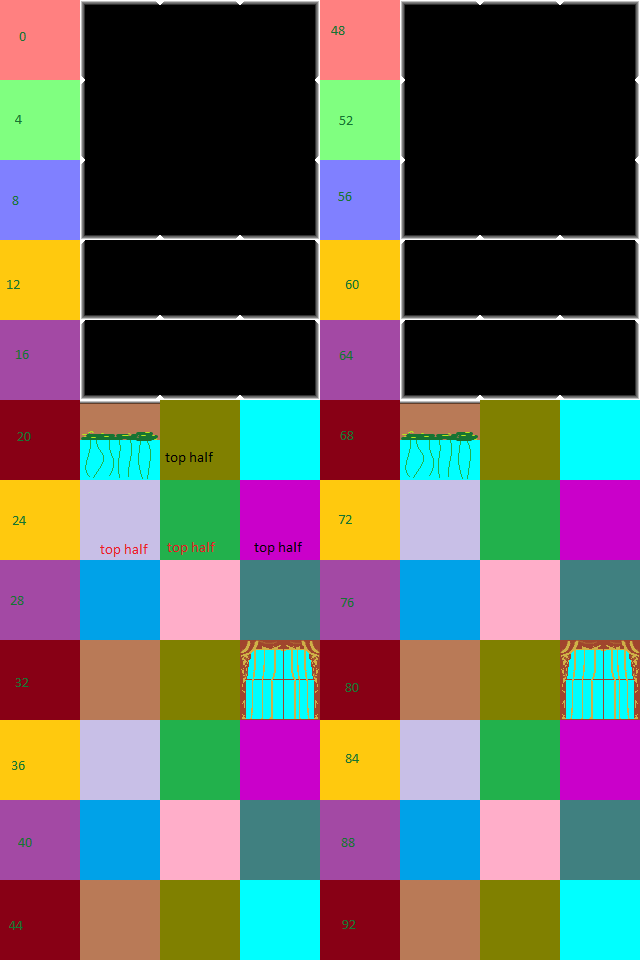
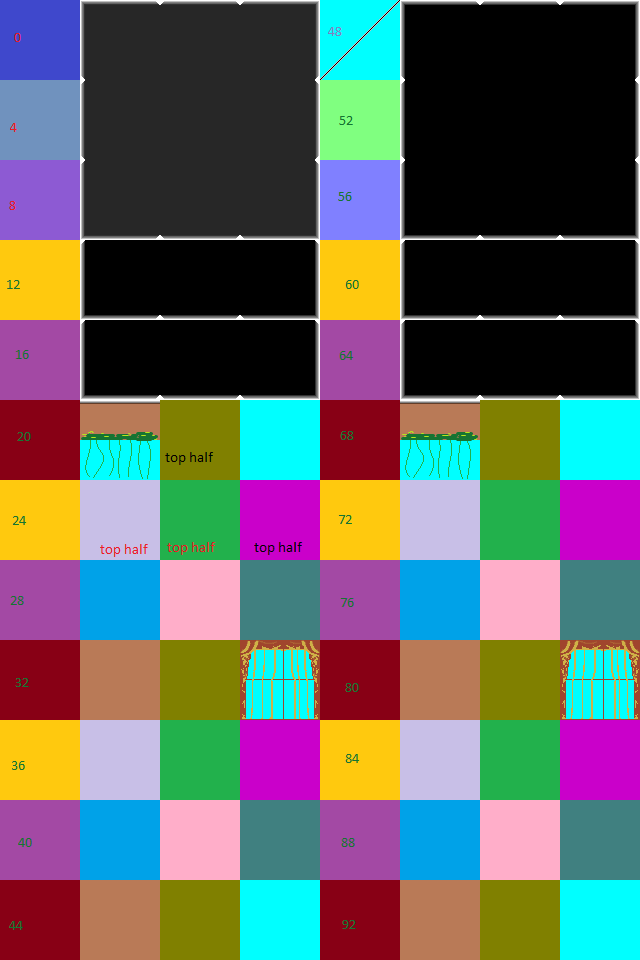
Diagonal tiles for now.

Changed region(s): [[0.0, 0.0, 0.625, 0.25]]

diff --git a/character.cc b/character.cc
@@ -394,12 +394,34 @@ void Character::move(Tile *tiles[], std::vector<Npc *> &npcVector, float timeSte
 	mBox.x = mPosX;
 	mWeapon.x = mPosX;
 	tileTouched = touchesWall(mBox, tiles);
-	if(tileTouched > -1 && mVelX > 0) {
-		if(tiles[tileTouched]->getType() >= 21 && tiles[tileTouched]->getType() <= 27) mPosX = tiles[tileTouched]->getCollisionBox().x - CHARACTER_WIDTH;
+	/*
+	if(tileTouched > -1 && tiles[tileTouched]->diagonalTile && mPosX > tiles[tileTouched]->getPixelBox()[tiles[tileTouched]->pixelTouched].x) {
+		mPosX = tiles[tileTouched]->getPixelBox()[tiles[tileTouched]->pixelTouched].x + tiles[tileTouched]->getPixelBox()[tiles[tileTouched]->pixelTouched].w;
+	}
+	*/
+	if(tileTouched > -1 && tiles[tileTouched]->diagonalTile && mPosY > tiles[tileTouched]->getPixelBox()[tiles[tileTouched]->pixelTouched].y) {
+		mPosY = tiles[tileTouched]->getPixelBox()[tiles[tileTouched]->pixelTouched].y + tiles[tileTouched]->getPixelBox()[tiles[tileTouched]->pixelTouched].h;
+		mPosX = tiles[tileTouched]->getPixelBox()[tiles[tileTouched]->pixelTouched].x - tiles[tileTouched]->getPixelBox()[tiles[tileTouched]->pixelTouched].w;
+	}
+	else if(tileTouched > -1 && mPosX < tiles[tileTouched]->getBox().x) {
+		if(tiles[tileTouched]->topHalf) mPosX = tiles[tileTouched]->getCollisionBox().x - CHARACTER_WIDTH;
+		else if(tiles[tileTouched]->diagonalTile && !(mPosY > tiles[tileTouched]->getPixelBox()[tiles[tileTouched]->pixelTouched].y)) {
+			//std::cout << "hit!" << std::endl;
+			mPosY = tiles[tileTouched]->getPixelBox()[tiles[tileTouched]->pixelTouched].y - CHARACTER_HEIGHT;
+		}
 		else mPosX = tiles[tileTouched]->getBox().x - CHARACTER_WIDTH;
 	}
-	if(tileTouched > -1 && mVelX < 0) {
-		if(tiles[tileTouched]->getType() >= 21 && tiles[tileTouched]->getType() <= 27) mPosX = tiles[tileTouched]->getCollisionBox().x + TILE_WIDTH;
+	else if(tileTouched > -1 && mVelX < 0) {
+		if(tiles[tileTouched]->topHalf) mPosX = tiles[tileTouched]->getCollisionBox().x + TILE_WIDTH;
+		else if(tiles[tileTouched]->diagonalTile && mPosY < tiles[tileTouched]->getPixelBox()[tiles[tileTouched]->pixelTouched].y) {
+			std::cout << tiles[tileTouched]->pixelTouched << std::endl;
+			//std::cout << "hit!" << std::endl;
+			mPosY = tiles[tileTouched]->getPixelBox()[tiles[tileTouched]->pixelTouched].y - tiles[tileTouched]->getPixelBox()[tiles[tileTouched]->pixelTouched].h;
+		}
+		else if(tiles[tileTouched]->diagonalTile && mPosY > tiles[tileTouched]->getPixelBox()[tiles[tileTouched]->pixelTouched].y) {
+			mPosY = tiles[tileTouched]->getPixelBox()[tiles[tileTouched]->pixelTouched].y + tiles[tileTouched]->getPixelBox()[tiles[tileTouched]->pixelTouched].h;
+			mPosX = tiles[tileTouched]->getPixelBox()[tiles[tileTouched]->pixelTouched].x - tiles[tileTouched]->getPixelBox()[tiles[tileTouched]->pixelTouched].w;
+		}
 		else mPosX = tiles[tileTouched]->getBox().x + TILE_WIDTH;
 	}
 
@@ -465,14 +487,32 @@ void Character::move(Tile *tiles[], std::vector<Npc *> &npcVector, float timeSte
 	mWeapon.y = mPosY;
 	tileTouched = touchesWall(mBox, tiles);
 	tileTap = touchesTap(mBox, tiles);
-	if(tileTouched > -1 && mVelY > 0) {
+	if(tileTouched > -1 && tiles[tileTouched]->diagonalTile && mPosY > tiles[tileTouched]->getPixelBox()[tiles[tileTouched]->pixelTouched].y) {
+		// Do nothing, seriously...
+	}
+	else if(tileTouched > -1 && mPosY < tiles[tileTouched]->getBox().y) {
 		mVelY = 0;
-		if(tiles[tileTouched]->getType() >= 21 && tiles[tileTouched]->getType() <= 27) mPosY = tiles[tileTouched]->getCollisionBox().y - CHARACTER_HEIGHT;
+		if(tiles[tileTouched]->topHalf) mPosY = tiles[tileTouched]->getCollisionBox().y - CHARACTER_HEIGHT;
+		else if(tiles[tileTouched]->diagonalTile) {
+			//std::cout << "hit!" << std::endl;
+			mPosY = tiles[tileTouched]->getPixelBox()[tiles[tileTouched]->pixelTouched].y - CHARACTER_HEIGHT;
+		}
 		else mPosY = tiles[tileTouched]->getBox().y - CHARACTER_HEIGHT;
 		isJumping = false;
 	}
-	if(tileTouched > -1 && mVelY < 0) {
-		if(tiles[tileTouched]->getType() >= 21 && tiles[tileTouched]->getType() <= 27) mPosY = tiles[tileTouched]->getCollisionBox().y + tiles[tileTouched]->getCollisionBox().h;
+	/*
+	if(tileTouched > -1 && tiles[tileTouched]->diagonalTile && mPosY > tiles[tileTouched]->getPixelBox()[tiles[tileTouched]->pixelTouched].y) {
+		mPosY = tiles[tileTouched]->getPixelBox()[tiles[tileTouched]->pixelTouched].y + tiles[tileTouched]->getPixelBox()[tiles[tileTouched]->pixelTouched].h;
+	}
+	*/
+	else if((tileTouched > -1 && mPosY > tiles[tileTouched]->getBox().y)) {
+		if(tiles[tileTouched]->topHalf) mPosY = tiles[tileTouched]->getCollisionBox().y + tiles[tileTouched]->getCollisionBox().h;
+		/*
+		else if(tiles[tileTouched]->diagonalTile) {
+			//std::cout << "hit!" << std::endl;
+			mPosY = tiles[tileTouched]->getPixelBox()[tiles[tileTouched]->pixelTouched].y + tiles[tileTouched]->getPixelBox()[tiles[tileTouched]->pixelTouched].h;
+		}
+		*/
 		else mPosY = tiles[tileTouched]->getBox().y + TILE_HEIGHT;
 	}
 	npcTouched = touchesNpc(mBox, npcVector);

diff --git a/proj.cc b/proj.cc
@@ -79,6 +79,7 @@ bool setTiles(Tile *tiles[], std::string mapName);
 
 //Box collision detector
 bool checkCollision(SDL_Rect a, SDL_Rect b);
+int checkDiagonalCollision(SDL_Rect a, std::vector<SDL_Rect> &b);
 
 //Checks collision box against set of tiles
 int touchesWall(SDL_Rect box, Tile *tiles[]);
@@ -344,6 +345,53 @@ bool checkCollision(SDL_Rect a, SDL_Rect b) {
 	return true;
 }
 
+int checkDiagonalCollision(SDL_Rect a, std::vector<SDL_Rect> &b) {
+	//The sides of the rectangles
+	int leftA, leftB;
+	int rightA, rightB;
+	int topA, topB;
+	int bottomA, bottomB;
+
+	//Calculate the sides of rect A
+	leftA = a.x;
+	rightA = a.x + a.w;
+	topA = a.y;
+	bottomA = a.y + a.h;
+
+	//Calculate the sides of rect B
+	for(unsigned bBox = 0; bBox < b.size(); ++bBox) {
+		leftB = b[bBox].x;
+		rightB = b[bBox].x + b[bBox].w;
+		topB = b[bBox].y;
+		bottomB = b[bBox].y + b[bBox].h;
+
+		//If any of the sides from A are outside of B
+		if(((bottomA <= topB) || (topA >= bottomB) || (rightA <= leftB) || (leftA >= rightB)) == false) {
+			return bBox;
+		}
+		/*
+		if(bottomA <= topB) {
+			return false;
+		}
+
+		if(topA >= bottomB) {
+			return false;
+		}
+
+		if(rightA <= leftB) {
+			return false;
+		}
+
+		if(leftA >= rightB) {
+			return false;
+		}
+		*/
+	}
+
+	//If none of the sides from A are outside B
+	return -1;
+}
+
 bool checkUpperCollision(SDL_Rect a, SDL_Rect b) {
 	//The sides of the rectangles
 	int leftA, leftB;
@@ -504,10 +552,18 @@ int touchesWall(SDL_Rect box, Tile *tiles[]) {
 		//If the tile is a wall type tile
 		if((tiles[i]->getType() % 4 != 0 && tiles[i]->getType() < 20) || 
 			 (tiles[i]->getType() % 4 != 0 && tiles[i]->getType() >= 49 && tiles[i]->getType() < 68) ||
-			 (tiles[i]->getType() % 4 != 0 && tiles[i]->getType() > 20 && tiles[i]->getType() <= 27 && tiles[i]->getType() != 23)) {
+			 (tiles[i]->topHalf) ||
+			 (tiles[i]->diagonalTile)) {
 			//If the collision box touches the wall tile
-			if(tiles[i]->getType() > 20 && tiles[i]->getType() <= 27) {
+			if(tiles[i]->topHalf) {
 				if(checkCollision(box, tiles[i]->getCollisionBox())) {
+					return i;
+				}
+			}
+			else if(tiles[i]->diagonalTile) {
+				int diag = checkDiagonalCollision(box, tiles[i]->getPixelBox());
+				if(diag > -1) {
+					tiles[i]->pixelTouched = diag;
 					return i;
 				}
 			}

diff --git a/npc.cc b/npc.cc
@@ -116,11 +116,15 @@ void Npc::move(Tile *tiles[], Character &character, float timeStep) {
 	mBox.x = mPosX;
 	tileTouched = touchesWall(mBox, tiles);
 	if(tileTouched > -1 && mVelX > 0) {
-		if(tiles[tileTouched]->getType() >= 21 && tiles[tileTouched]->getType() <= 27) mPosX = tiles[tileTouched]->getCollisionBox().x - NPC_WIDTH;
+		if(tiles[tileTouched]->topHalf) mPosX = tiles[tileTouched]->getCollisionBox().x - NPC_WIDTH;
+		else if(tiles[tileTouched]->diagonalTile) {
+			//std::cout << "hit!" << std::endl;
+			mPosY = tiles[tileTouched]->getPixelBox()[tiles[tileTouched]->pixelTouched].y - NPC_HEIGHT;
+		}
 		else mPosX = tiles[tileTouched]->getBox().x - NPC_WIDTH;
 	}
 	if(tileTouched > -1 && mVelX < 0) {
-		if(tiles[tileTouched]->getType() == 21 && tiles[tileTouched]->getType() <= 27) mPosX = tiles[tileTouched]->getCollisionBox().x + TILE_WIDTH;
+		if(tiles[tileTouched]->topHalf) mPosX = tiles[tileTouched]->getCollisionBox().x + TILE_WIDTH;
 		else mPosX = tiles[tileTouched]->getBox().x + TILE_WIDTH;
 	}
 	if(checkCollision(mBox, character.getBoxPosition()) && mVelX > 0) {
@@ -179,12 +183,16 @@ void Npc::move(Tile *tiles[], Character &character, float timeStep) {
 	mBox.y = mPosY;
 	tileTouched = touchesWall(mBox, tiles);
 	if(tileTouched > -1 && mVelY > 0) {
-		if(tiles[tileTouched]->getType() == 21 && tiles[tileTouched]->getType() <= 27) mPosY = tiles[tileTouched]->getCollisionBox().y - NPC_HEIGHT;
+		if(tiles[tileTouched]->topHalf) mPosY = tiles[tileTouched]->getCollisionBox().y - NPC_HEIGHT;
+		else if(tiles[tileTouched]->diagonalTile) {
+			//std::cout << "hit!" << std::endl;
+			mPosY = tiles[tileTouched]->getPixelBox()[tiles[tileTouched]->pixelTouched].y - NPC_HEIGHT;
+		}
 		else mPosY = tiles[tileTouched]->getBox().y - NPC_HEIGHT;
 		isJumping = false;
 	}
 	if(tileTouched > -1 && mVelY < 0) {
-		if(tiles[tileTouched]->getType() == 21 && tiles[tileTouched]->getType() <= 27) mPosY = tiles[tileTouched]->getCollisionBox().y + tiles[tileTouched]->getCollisionBox().h;
+		if(tiles[tileTouched]->topHalf) mPosY = tiles[tileTouched]->getCollisionBox().y + tiles[tileTouched]->getCollisionBox().h;
 		else mPosY = tiles[tileTouched]->getBox().y + TILE_HEIGHT;
 	}
 	if(checkCollision(mBox, character.getBoxPosition()) && mVelY > 0) {

diff --git a/tiles.cc b/tiles.cc
@@ -1,5 +1,6 @@
 #include "tiles.hpp"
 #include "globals.hpp"
+#include "iostream"
 
 Tile::Tile(int x, int y, int tileType) {
 	//Get the offsets
@@ -12,8 +13,25 @@ Tile::Tile(int x, int y, int tileType) {
 
 	//Get the tile type
 	if(tileType % 4 != 0 && tileType > 20 && tileType <= 27 && tileType != 23) {
+		topHalf = true;
 		mCollisionBox = mBox;
 		mCollisionBox.h = (TILE_HEIGHT / 2);
+	}
+	if(tileType == 48) {
+		diagonalTile = true;
+		int tmp = 0;
+		mPixelBox.resize(80);
+		/*
+		mPixelBox[tmp] = mBox;
+		mPixelBox[tmp].y = mBox.y + 40;
+		*/
+		for(int i = 79; i >= 0; --i) {
+			std::cout << tmp << ", x: "  << mBox.x + i << " y: " << mBox.y + (79 - i) << std::endl;
+			mPixelBox[tmp].x = mBox.x + i;
+			mPixelBox[tmp].y = mBox.y + (79 - i);
+			mPixelBox[tmp].w = 1;
+			mPixelBox[tmp++].h = 1;
+		}
 	}
 	mType = tileType;
 }
@@ -36,4 +54,8 @@ SDL_Rect Tile::getBox() {
 
 SDL_Rect Tile::getCollisionBox() {
 	return mCollisionBox;
+}
+
+std::vector<SDL_Rect> &Tile::getPixelBox() {
+	return mPixelBox;
 }

diff --git a/tiles.hpp b/tiles.hpp
@@ -1,6 +1,7 @@
 #ifndef TILES_HPP
 	#define TILES_HPP
 #include <SDL.h>
+#include <vector>
 //The tile
 class Tile {
 	public:
@@ -12,16 +13,23 @@ class Tile {
 
 		//Get the tile type
 		int getType();
+		bool diagonalTile = false;
+		bool topHalf = false;
+		int pixelTouched = 0;
 
 		//Get the collision box
 		SDL_Rect getBox();
 		SDL_Rect getCollisionBox();
+		std::vector<SDL_Rect> &getPixelBox();
 
 	private:
 		//The attributes of the tile
 		SDL_Rect mBox;
 
 		SDL_Rect mCollisionBox;
+
+		// Per-pixel collision box;
+		std::vector<SDL_Rect> mPixelBox;
 
 		//The tile type
 		int mType;
